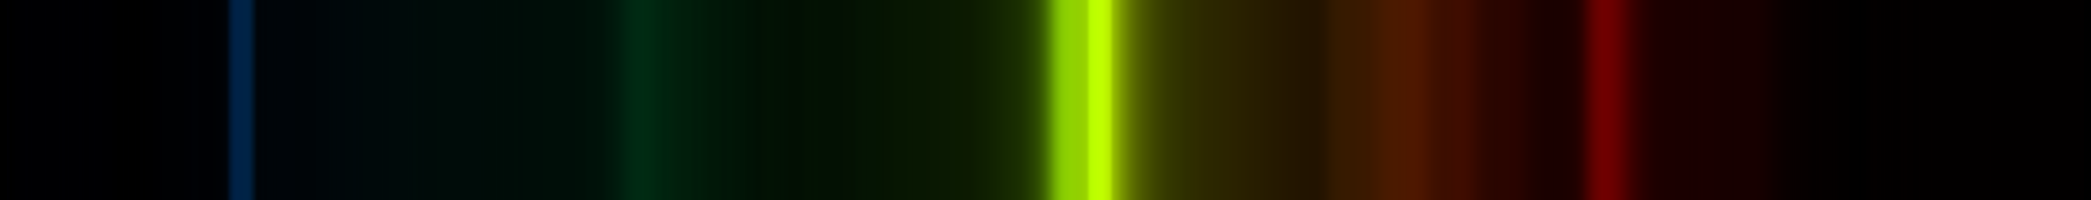
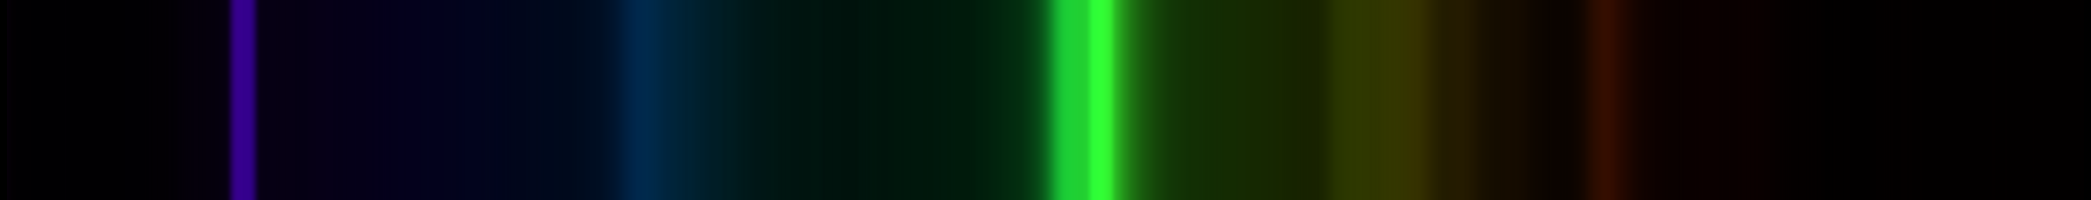
obalamp erbij

diff --git a/_capturer.py b/_capturer.py
@@ -12,8 +12,8 @@ class Capturer:
     def readFromFile(self, name):
         img = cv2.imread(name)
         img = img[self.config.bottomh:self.config.toph, self.config.bottomw:self.config.topw]
-        imggray = cv2.cvtColor(img, cv2.COLOR_BGR2GRAY) # to gray scale
-        imggray = cv2.cvtColor(imggray, cv2.COLOR_GRAY2BGR) # to gray scale
+        imggray = cv2.cvtColor(img, cv2.COLOR_RGB2GRAY) # to gray scale
+        imggray = cv2.cvtColor(imggray, cv2.COLOR_GRAY2RGB) # to gray scale
 
         if self.spectrum.getSpectrumimg() is None:
             self.spectrum.setSpectrumimg(imggray)

diff --git a/analyzer.py b/analyzer.py
@@ -15,7 +15,7 @@ def run():
     s = Spectrum("tlbalk")
 
 #    Capturer(s).capture(5) # multicapture parameter
-    Capturer(s).readFromFile("newspectra/fibre.jpg")
+    Capturer(s).readFromFile("newspectra/tl.jpg")
     s.showSpectrumimg()
 
     Collapser(s).collapse()
